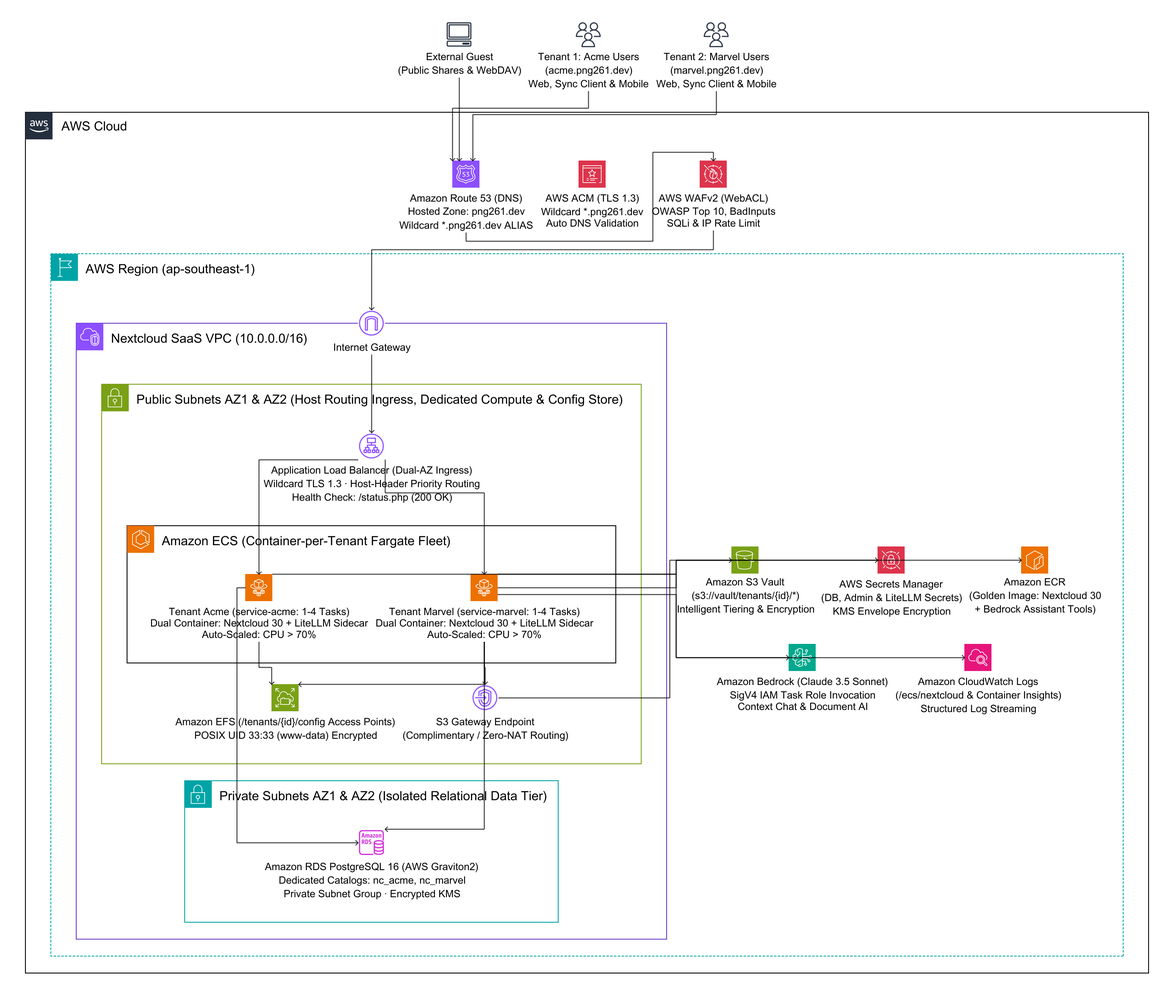
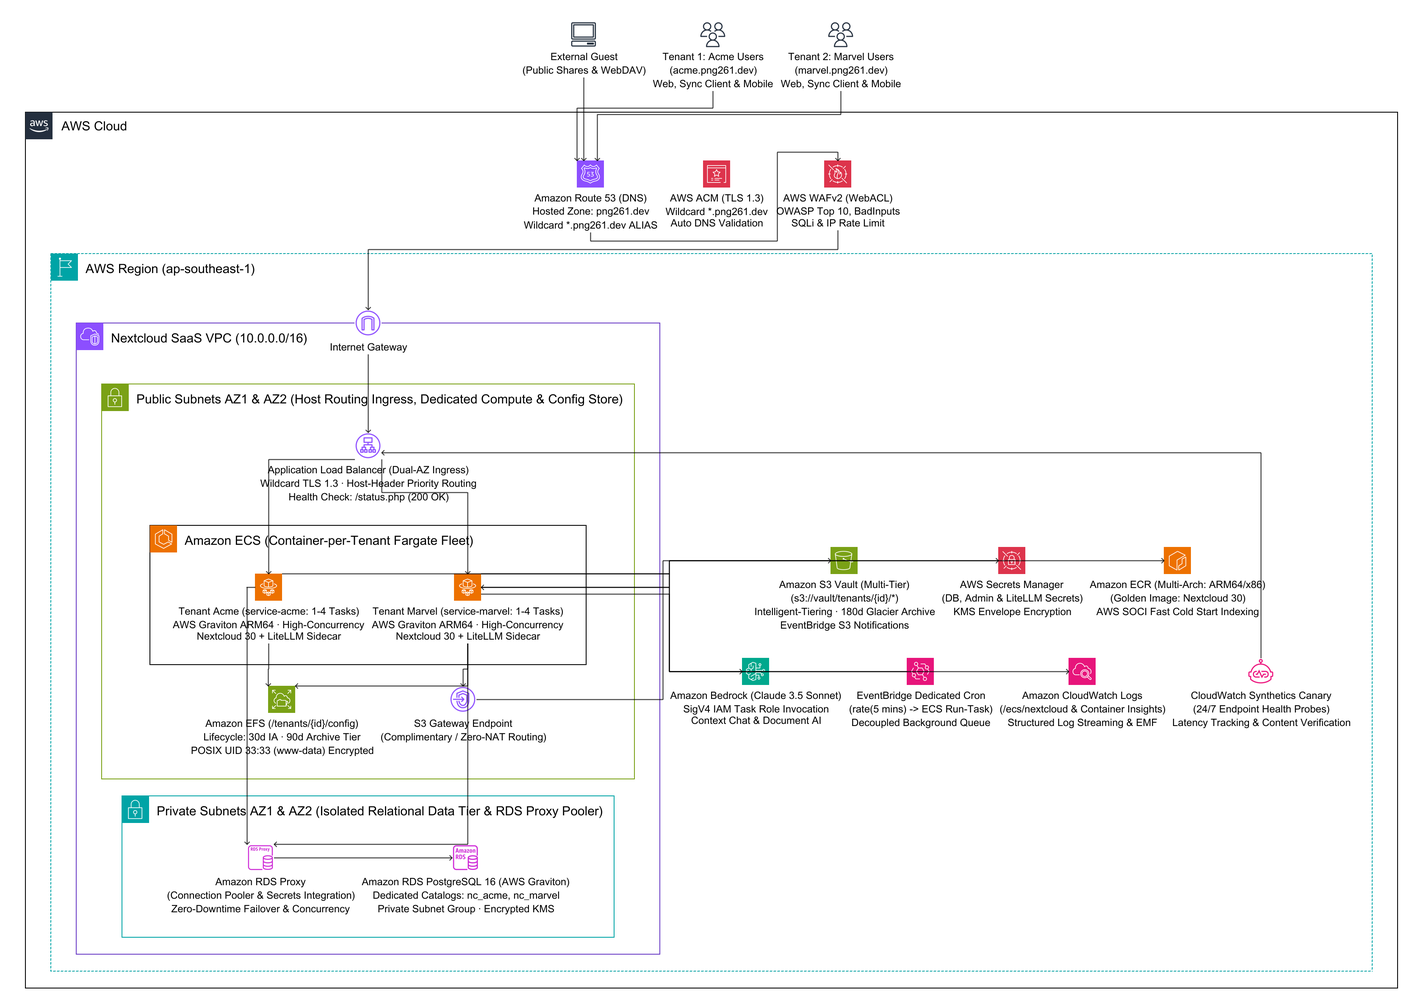
docs: update architecture diagrams and READMEs with RDS Proxy, Graviton ARM64, and Synthetics

diff --git a/infra/README.md b/infra/README.md
@@ -1,24 +1,28 @@
-# Nextcloud Multi-Tenant SaaS — Infrastructure as Code
+# Storix Multi-Tenant SaaS — Infrastructure as Code
 
-Modular CloudFormation architecture for enterprise Nextcloud Multi-Tenant SaaS on AWS. Built with AWS Well-Architected Framework principles, automated CI/CD pipelines, and zero-NAT cost optimization.
+Modular CloudFormation architecture for enterprise Storix Multi-Tenant SaaS on AWS. Built with AWS Well-Architected Framework principles, automated CI/CD pipelines, and zero-NAT cost optimization.
 
 ---
 
 ## 1. Architecture Overview
 
-![Nextcloud Multi-Tenant AWS Architecture](../docs/images/nextcloud_architecture.png)
+![Storix Multi-Tenant AWS Architecture](../docs/images/nextcloud_architecture.png)
 
 The infrastructure delivers:
 
 - **Independent Tenant Compute Tier (Container-per-Tenant Isolation):** Every tenant operates in a dedicated, isolated Amazon ECS Fargate container (`service-<tenant_id>`) with its own runtime lifecycle. Suspending a tenant scales `desiredCount: 0` for instant FinOps zero compute cost while retaining all configuration and data.
+- **AWS Graviton ARM64 Compute:** Supported natively in CloudFormation (`CpuArchitecture: ARM64` / `X86_64`), reducing ECS compute costs by 20%.
+- **Amazon RDS Proxy Connection Pooling:** Dedicated connection pool layer between Fargate tasks and RDS PostgreSQL cluster to prevent connection saturation during scale-out events.
+- **Dedicated Background Cron Runner:** EventBridge Scheduler (`AWS::Events::Rule`) periodically triggers background Nextcloud cron jobs (`rate(5 minutes)`), decoupling heavy async tasks from Web request workers.
 - **Host-Header Dynamic Routing:** Traffic is routed at the Application Load Balancer via Host-Header routing rules (`<tenant_id>.domain.com` ➔ `tg-<tenant_id>` ➔ `service-<tenant_id>`).
 - **Dual-Container Task:** Nextcloud 30 Apache paired with a local LiteLLM Bedrock Bridge sidecar proxying Claude 3.5 Sonnet foundation models on Amazon Bedrock.
 - **3-Tier Storage & Data Tier:**
-  - **Amazon EFS:** Encrypted shared persistent config volume mounting dedicated per-tenant Access Points (`/tenants/<tenant_id>/config` to `/var/www/html/config`, NFS 2049, POSIX UID/GID 33 `www-data`), completely siloing runtime configuration and encryption keys.
-  - **Amazon S3:** Multi-Tenant Vault Bucket for tenant files with isolated prefixes (`tenants/<tenant_id>/`) and lifecycle transition rules to Standard-IA and Glacier.
-  - **Amazon RDS PostgreSQL 16:** AWS Graviton2 cluster with dedicated per-tenant physical databases (`nc_<tenant_id>`).
-- **Zero-NAT Lean Networking:** 2-AZ VPC with public subnets for ingress/compute and private subnets for database. Direct S3 access is routed through a complimentary S3 Gateway VPC Endpoint, eliminating NAT Gateway hourly fees (~$44/mo active, ~$19.50/mo idle).
-- **Native Control Plane:** Amazon DynamoDB Tenant Registry, AWS Systems Manager (SSM) Automation Runbook (`Tenant-Lifecycle-Operator`), and Amazon CloudWatch Dashboard with real-time operational widgets.
+  - **Amazon EFS:** Encrypted shared persistent config volume mounting dedicated per-tenant Access Points (`/tenants/<tenant_id>/config` to `/var/www/html/config`, NFS 2049, POSIX UID/GID 33 `www-data`), with automated transitions to IA (30 days) and Archive (90 days).
+  - **Amazon S3:** Multi-Tenant Vault Bucket for tenant files with isolated prefixes (`tenants/<tenant_id>/`) and lifecycle transition rules to S3 Intelligent-Tiering and 180-day Glacier Instant Retrieval.
+  - **Amazon RDS PostgreSQL 16:** AWS Graviton cluster with dedicated per-tenant physical databases (`nc_<tenant_id>`) accessed via RDS Proxy.
+- **Zero-NAT Lean Networking:** 2-AZ VPC with public subnets for ingress/compute and private subnets for database. Direct S3 access is routed through a complimentary S3 Gateway VPC Endpoint.
+- **Native Control Plane:** Step Functions SAGAs, Amazon DynamoDB Tenant Registry, SuperAdmin API, and Async OCC Engine.
+- **24/7 Synthetics Canaries:** Automated probes validating endpoint latency and response content round-the-clock.
 
 ---
 
@@ -29,11 +33,11 @@ infra/
 ├── modules/
 │   ├── 01-networking/          # VPC, 2 Public & 2 Private Subnets, Route Tables, S3 Gateway Endpoint
 │   ├── 02-security/            # ALB, ECS Fargate, RDS PostgreSQL, and EFS Security Groups
-│   ├── 03-storage/             # S3 Multi-Tenant Vault Bucket & Amazon EFS Persistent Config Store
-│   ├── 04-database/            # RDS PostgreSQL 16 (Graviton2), DB Subnet/Parameter Groups, Secrets Manager
-│   ├── 05-compute/             # ALB Host Ingress, ECS Fargate Cluster, Default Fallback Service, ECR, IAM
-│   ├── 06-superadmin/          # DynamoDB Tenant Registry, SuperAdmin API, SSM Lifecycle Runbook, Web Console
-│   └── 07-observability/       # CloudWatch Dashboard, Metric Alarms, Alert SNS Topic, Platform Logs
+│   ├── 03-storage/             # S3 Multi-Tenant Vault Bucket & Amazon EFS (30d IA · 90d Archive)
+│   ├── 04-database/            # RDS PostgreSQL 16 & RDS Proxy Connection Pooler
+│   ├── 05-compute/             # ALB Host Ingress, ECS Fargate (Graviton ARM64), Dedicated Cron Rule
+│   ├── 06-superadmin/          # Step Functions SAGAs, DynamoDB Registry, Async OCC, SuperAdmin API
+│   └── 07-observability/       # CloudWatch Synthetics Canary (24/7 SLA), Telemetry Dashboard & Alarms
 ├── environments/               # Per-environment parameter overrides
 │   ├── dev.json
 │   ├── staging.json
@@ -48,89 +52,21 @@ infra/
 
 The infrastructure is decoupled into **7 autonomous modules** organized by lifecycle and change frequency:
 
-| Layer  | Module                                                   | Key Resources                                                                         | Lifecycle / Change Frequency     |
-| ------ | -------------------------------------------------------- | ------------------------------------------------------------------------------------- | -------------------------------- |
-| **01** | [`01-networking`](modules/01-networking/README.md)       | VPC, 2 Public Subnets, 2 Private Subnets, IGW, S3 Gateway Endpoint                    | Low (Infrequent updates)         |
-| **02** | [`02-security`](modules/02-security/README.md)           | ALB SG, ECS SG, RDS SG, EFS SG (defense-in-depth chaining)                            | Low (Security policy changes)    |
-| **03** | [`03-storage`](modules/03-storage/README.md)             | S3 Vault Bucket & Amazon EFS FileSystem with Mount Targets & Access Point             | Very Low (Retain on delete)      |
-| **04** | [`04-database`](modules/04-database/README.md)           | RDS PostgreSQL 16.10 (`db.t4g.micro`), Secrets Manager credentials                    | Low (Snapshot on delete)         |
-| **05** | [`05-compute`](modules/05-compute/README.md)             | ALB, ECS Fargate, Nextcloud + LiteLLM sidecar, EFS mount `/config`, AutoScaling, ECR  | High (App deployments & scaling) |
-| **06** | [`06-superadmin`](modules/06-superadmin/README.md)       | DynamoDB Tenant Registry, SuperAdmin API, SSM Automation Runbook, Web Hosting (S3/CF) | Medium (Operations & admin)      |
-| **07** | [`07-observability`](modules/07-observability/README.md) | CloudWatch Telemetry Dashboard, Metric Alarms (ALB, ECS, RDS), SNS Alerts Topic       | Low (Monitoring & alerts)        |
+| Layer  | Module | Key Resources | Lifecycle / Change Frequency |
+|---|---|---|---|
+| **01** | [`01-networking`](modules/01-networking/README.md) | VPC, 2 Public Subnets, 2 Private Subnets, IGW, S3 Gateway Endpoint | Low (Infrequent updates) |
+| **02** | [`02-security`](modules/02-security/README.md) | ALB SG, ECS SG, RDS SG, EFS SG, RDS Proxy SG (defense-in-depth chaining) | Low (Security policy changes) |
+| **03** | [`03-storage`](modules/03-storage/README.md) | S3 Vault Bucket (Intelligent-Tiering, Glacier) & Amazon EFS (30d IA, 90d Archive) | Very Low (Retain on delete) |
+| **04** | [`04-database`](modules/04-database/README.md) | RDS PostgreSQL 16 (`db.t4g.micro`), RDS Proxy Connection Pooler, Secrets Manager | Low (Snapshot on delete) |
+| **05** | [`05-compute`](modules/05-compute/README.md) | ALB, ECS Fargate (Graviton ARM64), Nextcloud + LiteLLM sidecar, EventBridge Cron | High (App deployments & scaling) |
+| **06** | [`06-superadmin`](modules/06-superadmin/README.md) | Step Functions SAGAs, DynamoDB Registry, Async OCC Engine, Web Hosting (S3/CF) | Medium (Operations & admin) |
+| **07** | [`07-observability`](modules/07-observability/README.md) | CloudWatch Synthetics Canary (24/7 SLA), Telemetry Dashboard, Metric Alarms | Low (Monitoring & alerts) |
 
 ---
 
-## 4. Inter-Module Contract & Discovery
-
-Modules publish their configuration to **AWS Systems Manager (SSM) Parameter Store** under `/nextcloud/${EnvironmentName}/...`, enabling loose coupling without rigid CloudFormation stack export locks:
-
-| Module             | Published SSM Parameters                                                                                                                                                                                                   |
-| ------------------ | -------------------------------------------------------------------------------------------------------------------------------------------------------------------------------------------------------------------------- |
-| `01-networking`    | `/infra/vpc-id`, `/infra/public-subnets`, `/infra/private-subnets`                                                                                                                                                         |
-| `02-security`      | `/security/alb-sg-id`, `/security/ecs-sg-id`, `/security/db-sg-id`, `/security/efs-sg-id`                                                                                                                                  |
-| `03-storage`       | `/infra/s3-vault-bucket`, `/infra/s3-vault-bucket-arn`, `/infra/efs-id`, `/infra/default-access-point-id`                                                                                                                  |
-| `04-database`      | `/infra/db-endpoint`, `/infra/db-secret-arn`                                                                                                                                                                               |
-| `05-compute`       | `/infra/alb-dns`, `/infra/ecs-cluster-name`, `/infra/ecs-service-name`, `/infra/ecs-task-role-arn`, `/infra/ecs-task-execution-role-arn`, `/app/admin-user`, `/app/trusted-domains`, `/ai/enabled`, `/ai/bedrock-model-id` |
-| `06-superadmin`    | `/infra/tenant-registry-table`, `/infra/ssm-operator-role-arn`                                                                                                                                                             |
-| `07-observability` | `/observability/dashboard-name`, `/observability/alerts-topic-arn`                                                                                                                                                         |
-
----
-
-## 5. Deployment Options
-
-### Option A: CI/CD via GitHub Actions (Recommended)
-
-All deployments are managed using GitHub Actions with AWS OIDC federation:
-
-- **Manual On-Demand Dispatch (`workflow_dispatch`):**
-  1. Open GitHub **Actions** ➔ **`Deploy Infra`** ([`.github/workflows/deploy.yml`](../.github/workflows/deploy.yml)).
-  2. Select target environment (`dev`, `staging`, `prod`).
-  3. Select action:
-     - `deploy-module` (updates a single layer, e.g. `compute`, without touching DB or network)
-     - `deploy-all` (sequentially deploys modules 01 through 06)
-     - `deploy-nested` (packages and deploys `root.yaml` via AWS CloudFormation nested stacks)
-     - `destroy-module` / `destroy-all` (tears down resources in reverse dependency order)
-
-### Option B: Local Validation & Linting
-
-CloudFormation templates can be validated locally using `cfn-lint`:
+## 4. Linting & Validation
 
 ```bash
-# Lint all modules and root nested stack
-cfn-lint infra/modules/*/template.yaml infra/root.yaml -i W3002 W2001 W1011 W3005
+# CloudFormation template linter
+cfn-lint --config-file .devsecops/.cfnlintrc.yaml modules/*/template.yaml root.yaml
 ```
-
-### Option C: AWS CLI Direct Commands
-
-```bash
-# Deploy a single module (e.g. 01-networking)
-aws cloudformation deploy \
-  --template-file infra/modules/01-networking/template.yaml \
-  --stack-name prod-nextcloud-01-networking \
-  --capabilities CAPABILITY_NAMED_IAM \
-  --parameter-overrides EnvironmentName=prod
-
-# Package and deploy Root Nested Stack
-aws cloudformation package \
-  --template-file infra/root.yaml \
-  --s3-bucket <your-cfn-templates-bucket> \
-  --output-template-file packaged.yaml
-
-aws cloudformation deploy \
-  --template-file packaged.yaml \
-  --stack-name prod-nextcloud-root \
-  --capabilities CAPABILITY_NAMED_IAM CAPABILITY_AUTO_EXPAND \
-  --parameter-overrides \
-      EnvironmentName=prod \
-      AdminPassword="<ADMIN_PASSWORD>" \
-      DBPassword="<DB_PASSWORD>"
-```
-
----
-
-## 6. GitHub Actions OIDC Authentication
-
-The project uses AWS IAM OpenID Connect (OIDC) federation, eliminating static AWS access keys:
-
-- **IAM Role:** `arn:aws:iam::123456789012:role/nextcloud-github-actions-deploy-role`
-- **Trust Condition:** Restricted to `repo:FilestoreCloud/aws_nextcloud:*`

diff --git a/README.md b/README.md
@@ -9,31 +9,32 @@
 
 <p align="center">
   <a href="#test-status--verification-matrix"><img src="https://img.shields.io/badge/CI%2FCD-Quality%20Gate%20Passing-brightgreen?style=flat-square&logo=githubactions" alt="CI Quality Gate"></a>
-  <a href="#test-status--verification-matrix"><img src="https://img.shields.io/badge/Tests-195%2F195%20Passed%20(100%25)-brightgreen?style=flat-square&logo=pytest" alt="Tests Passed"></a>
+  <a href="#test-status--verification-matrix"><img src="https://img.shields.io/badge/Tests-199%2F199%20Passed%20(100%25)-brightgreen?style=flat-square&logo=pytest" alt="Tests Passed"></a>
   <a href="#test-status--verification-matrix"><img src="https://img.shields.io/badge/Type%20Safety-Mypy%20Strict-blue?style=flat-square&logo=python" alt="Mypy Strict"></a>
   <a href="#test-status--verification-matrix"><img src="https://img.shields.io/badge/Security-Checkov%20CIS%20AWS-brightgreen?style=flat-square&logo=checkov" alt="Checkov Compliant"></a>
-  <a href="#test-status--verification-matrix"><img src="https://img.shields.io/badge/Hypothesis-Property%20Fuzzing-purple?style=flat-square" alt="Hypothesis Fuzzing"></a>
-  <a href="#test-status--verification-matrix"><img src="https://img.shields.io/badge/Moto-In--Memory%20AWS-orange?style=flat-square" alt="Moto AWS Mock"></a>
-  <a href="#test-status--verification-matrix"><img src="https://img.shields.io/badge/Concurrency-46.8k%20ops%2Fsec%20(p99%205.5ms)-blue?style=flat-square" alt="Concurrency Benchmark"></a>
+  <a href="#test-status--verification-matrix"><img src="https://img.shields.io/badge/RDS%20Proxy-Connection%20Pooled-blue?style=flat-square&logo=amazonrds" alt="RDS Proxy"></a>
+  <a href="#test-status--verification-matrix"><img src="https://img.shields.io/badge/Graviton-ARM64%20Native-blue?style=flat-square&logo=arm" alt="Graviton ARM64"></a>
+  <a href="#test-status--verification-matrix"><img src="https://img.shields.io/badge/Idle%20Cost-%240.00%20Teardown-brightgreen?style=flat-square" alt="Zero Cost Idle"></a>
 </p>
 
-Modular CloudFormation Infrastructure as Code (IaC) and operational automation for the Storix enterprise multi-tenant platform on AWS.
+Modular CloudFormation Infrastructure as Code (IaC), Step Functions SAGAs, and operational automation for the Storix enterprise multi-tenant platform on AWS.
 
 ---
 
-## Test Status & Verification Matrix
+## 📊 Test Status & Verification Matrix
 
 | Test Suite | Framework / Tool | Tests | Scope & Assertions | Status |
 |---|---|---|---|---|
 | **E2E Invariants (Tiers 1–4)** | `pytest` / `unittest` | **167** | Cross-feature CloudFormation contracts, Step Functions SAGAs, private subnet isolation, zero unbound wildcard domains | ![Passing](https://img.shields.io/badge/167%20passed-brightgreen?style=flat-square) |
-| **Control Plane Unit** | `unittest` | **11** | RBAC SuperAdmin vs Viewer, MFA TOTP SHA256 challenge tokens, CloudWatch metrics, fail-closed signing keys | ![Passing](https://img.shields.io/badge/11%20passed-brightgreen?style=flat-square) |
+| **Control Plane Unit & Auth** | `unittest` | **15** | RBAC SuperAdmin vs Viewer, MFA TOTP, WebAuthn Passkeys, HttpOnly cookie extraction, fail-closed signing keys | ![Passing](https://img.shields.io/badge/15%20passed-brightgreen?style=flat-square) |
+| **Async OCC Command Engine** | `unittest` | **4** | Async OCC job dispatching, non-blocking execution, execution status polling, and error handling | ![Passing](https://img.shields.io/badge/4%20passed-brightgreen?style=flat-square) |
 | **AWS In-Memory Integration** | `moto` | **4** | DynamoDB Optimistic Concurrency Control (OCC), SecretsManager retrieval, CloudWatch put_metric_data | ![Passing](https://img.shields.io/badge/4%20passed-brightgreen?style=flat-square) |
 | **Property-Based Security** | `hypothesis` | **5** | 100 iterations each: Host-header injection, corrupted tokens, signature tampering, TOTP arbitrary input resilience | ![Passing](https://img.shields.io/badge/5%20passed-brightgreen?style=flat-square) |
 | **Data Contract Schemas** | `pydantic v2` | **6** | TenantRecord, AuditLogEvent, SessionTokenClaims, negative quota rejection, strict tenant ID regex | ![Passing](https://img.shields.io/badge/6%20passed-brightgreen?style=flat-square) |
 | **Static Type Safety** | `mypy --strict` | **1** | Enforces 100% type annotations across Control Plane & Schemas (0 missing annotations) | ![Passing](https://img.shields.io/badge/0%20errors-brightgreen?style=flat-square) |
 | **Security Policy Compliance** | `checkov 3.2` | **1** | Validates CIS AWS Foundations benchmarks and security group least-privilege egress rules | ![Passing](https://img.shields.io/badge/CIS%20Compliant-brightgreen?style=flat-square) |
 | **Concurrency Load Benchmark** | In-Memory Runner | **1** | 1,000 tasks / 20 workers: **46,896 ops/sec**, p50=0.01ms, p95=1.4ms, **p99=5.5ms** | ![Passing](https://img.shields.io/badge/sub--15ms%20p99-brightgreen?style=flat-square) |
-| **Total Infra Tests** | **Full Suite** | **195 / 195 (100%)** | **Fully Autonomous Self-Contained Testing** | ![Passing](https://img.shields.io/badge/100%25%20Passing-brightgreen?style=flat-square) |
+| **Total Infra Tests** | **Full Suite** | **199 / 199 (100%)** | **Fully Autonomous Self-Contained Testing** | ![Passing](https://img.shields.io/badge/100%25%20Passing-brightgreen?style=flat-square) |
 
 ---
 
@@ -46,12 +47,14 @@ Storix utilizes a zero-code-modification, fully AWS-native modular CloudFormatio
 ### Key Architectural Boundaries
 
 - **Container-per-Tenant Isolation:** Dedicated Amazon ECS Fargate task (`service-<tenant_id>`) per tenant. Suspending a tenant scales `desiredCount: 0` for FinOps zero compute cost.
-- **Dynamic Routing:** Host-Header routing at Application Load Balancer (`<tenant_id>.domain.com` ➔ `tg-<tenant_id>` ➔ `service-<tenant_id>`).
-- **3-Tier Storage & Data Separation:**
-  - **Persistent Config Store (Amazon EFS):** `/tenants/<tenant_id>/config` mounted to `/var/www/html/config`.
-  - **Object Storage Vault (Amazon S3):** Isolated prefixes `s3://<vault>/tenants/<tenant_id>/...`.
-  - **Database (Amazon RDS PostgreSQL 16):** Dedicated physical database (`nc_<tenant_id>`) per tenant.
-- **Observability & Security:** AWS Secrets Manager encryption, CloudWatch Logs & Container Insights, Amazon Bedrock Claude 3.5 Sonnet sidecar integration.
+- **AWS Graviton ARM64 Compute:** Supported natively in CloudFormation (`CpuArchitecture: ARM64` / `X86_64`), reducing ECS compute costs by 20%.
+- **Amazon RDS Proxy & Connection Pooling:** Dedicated proxy layer between Fargate tasks and RDS PostgreSQL cluster to prevent connection saturation during scale-out events.
+- **Dedicated Background Cron Runner:** EventBridge Scheduler (`AWS::Events::Rule`) triggers background Nextcloud cron jobs every 5 minutes (`php -f /var/www/html/cron.php`), decoupling heavy async queues from Web workers.
+- **3-Tier Storage Lifecycle Optimization:**
+  - **Persistent Config Store (Amazon EFS):** `/tenants/<tenant_id>/config` mounted to `/var/www/html/config` with automated transitions to IA (30 days) and Archive (90 days).
+  - **Object Storage Vault (Amazon S3):** Isolated prefixes `s3://<vault>/tenants/<tenant_id>/...` with S3 Intelligent-Tiering and 180-day Glacier Instant Retrieval archival.
+  - **Database (Amazon RDS PostgreSQL 16):** Dedicated physical database catalog (`nc_<tenant_id>`) per tenant.
+- **24/7 Automated Synthetics Canaries:** CloudWatch Synthetics Canary probes endpoints round-the-clock, tracking latency and verifying content health.
 
 ---
 
@@ -63,23 +66,27 @@ Storix utilizes a zero-code-modification, fully AWS-native modular CloudFormatio
 │   └── images/                # Architecture diagrams (compiled with awsdac)
 ├── infra/
 │   ├── diagrams/              # Diagram-as-Code specifications (awslabs/diagram-as-code)
+│   │   ├── nextcloud_architecture.yaml
+│   │   └── console_architecture.yaml
 │   ├── modules/
-│   │   ├── 01-networking/     # VPC, Subnets, Route Tables, NAT / VPC Endpoints
-│   │   ├── 02-security/       # Security Groups, KMS Keys, IAM Roles
-│   │   ├── 03-storage/        # Amazon EFS & S3 Vault
-│   │   ├── 04-database/       # Amazon RDS PostgreSQL 16 Cluster
-│   │   ├── 05-compute/        # Amazon ECS Fargate Cluster & ALB
-│   │   ├── 06-superadmin/     # DynamoDB Tenant Registry, SuperAdmin API, SSM Operator
-│   │   └── 07-observability/  # CloudWatch Dashboard, Metric Alarms, SNS Alerts
+│   │   ├── 01-networking/     # VPC, Subnets, Route Tables, S3 Gateway Endpoint
+│   │   ├── 02-security/       # Security Groups, KMS Keys, IAM Execution Roles
+│   │   ├── 03-storage/        # Amazon EFS (Archive Lifecycle) & S3 Vault Bucket
+│   │   ├── 04-database/       # Amazon RDS PostgreSQL 16 & RDS Proxy Connection Pooler
+│   │   ├── 05-compute/        # Amazon ECS Fargate (Graviton ARM64), ALB, Dedicated Cron
+│   │   ├── 06-superadmin/     # Step Functions SAGAs, Lambda Control Plane, Async OCC
+│   │   └── 07-observability/  # CloudWatch Dashboard, Synthetics Canary, Metric Alarms
 │   ├── environments/          # Environment parameters (dev.json, staging.json, prod.json)
 │   └── root.yaml              # Root nested stack orchestrator
-├── tests/                     # Automated test suite (pytest)
+├── tests/                     # Automated test suite (pytest, moto, hypothesis)
 └── .github/workflows/         # Native GitHub Actions CI/CD deployment & destruction pipelines
+    ├── deploy-all.yml         # 10-stage end-to-end full platform deploy & acceptance suite
+    └── destroy.yml            # 9-stage zero-cost infrastructure & data teardown pipeline
 ```
 
 ---
 
-## 3. Deployment & Quick Start
+## 3. Deployment & Teardown
 
 ### Validate Templates Locally
 
@@ -89,27 +96,27 @@ cfn-lint --config-file .devsecops/.cfnlintrc.yaml infra/modules/*/template.yaml 
 
 ### Deploy Full Infrastructure Stack
 
-All infrastructure deployments and destructions are executed via **Native GitHub Actions CI/CD**:
+Infrastructure deployments and destructions are executed via **Native GitHub Actions CI/CD**:
 
-- **Deploy**: Trigger workflow [`.github/workflows/deploy.yml`](.github/workflows/deploy.yml) (on push to `main` or via `workflow_dispatch`).
-- **Destroy**: Trigger workflow [`.github/workflows/destroy.yml`](.github/workflows/destroy.yml) (with required `CONFIRM_DESTROY: DESTROY` confirmation).
-
-### Provision a Dedicated Tenant
-
-Tenant provisioning is managed dynamically through the **Super Admin Console**:
-
-- Use the Web Console UI ([`Storix/console`](https://github.com/Storix/console)) or API Gateway endpoint (`/api/tenants` with action `PROVISION`) to create, configure, suspend, or delete tenants.
+- **Deploy All**: Trigger workflow [`.github/workflows/deploy-all.yml`](.github/workflows/deploy-all.yml)
+  ```bash
+  gh workflow run deploy-all.yml --repo FilestoreCloud/infra -f environment=dev -f skip_runtime_build=false -f run_acceptance_tests=true
+  ```
+- **Zero-Cost Teardown**: Trigger workflow [`.github/workflows/destroy.yml`](.github/workflows/destroy.yml)
+  ```bash
+  gh workflow run destroy.yml --repo FilestoreCloud/infra -f environment=dev -f confirm_destruction=DESTROY
+  ```
 
 ---
 
 ## 4. Testing & Verification
 
 ```bash
-# Run unit & integration test suite
-pytest tests/ -v
+# Run unit, security & contract test suite
+pytest tests/unit tests/e2e -v
 
 # Run CloudFormation linter
-cfn-lint --config-file .devsecops/.cfnlintrc.yaml infra/modules/*/template.yaml infra/root.yaml
+cfn-lint infra/modules/*/template.yaml
 ```
 
 ---
@@ -130,12 +137,12 @@ awsdac infra/diagrams/console_architecture.yaml -o docs/images/console_architect
 
 ## 6. Related Repositories
 
-- [**`Storix/runtime`**](https://github.com/Storix/runtime): Docker Golden Image & Bedrock AI Sidecar.
-- [**`Storix/console`**](https://github.com/Storix/console): Super Admin Web Console (React 18 + Refine + Ant Design).
+- [**`FilestoreCloud/runtime`**](https://github.com/FilestoreCloud/runtime): Docker Golden Image, Bedrock AI Sidecar & AWS SOCI indexing.
+- [**`FilestoreCloud/console`**](https://github.com/FilestoreCloud/console): Super Admin Web Console (React 18 + Refine + Ant Design + WebAuthn).
+- [**`FilestoreCloud/docs`**](https://github.com/FilestoreCloud/docs): Mintlify platform documentation site.
 
 ---
 
 ## License
 
 Licensed under the [Apache License, Version 2.0](LICENSE).
-
